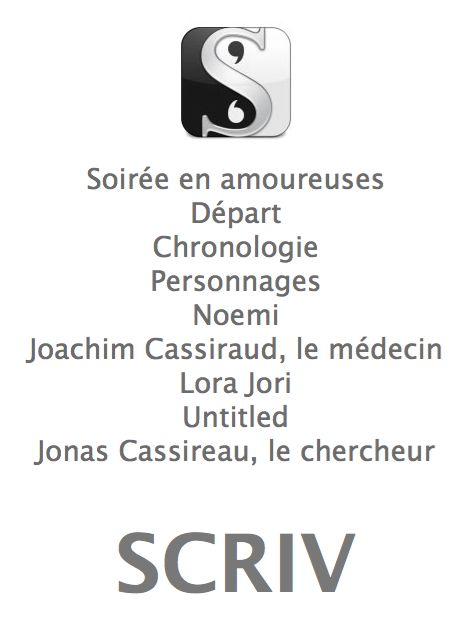
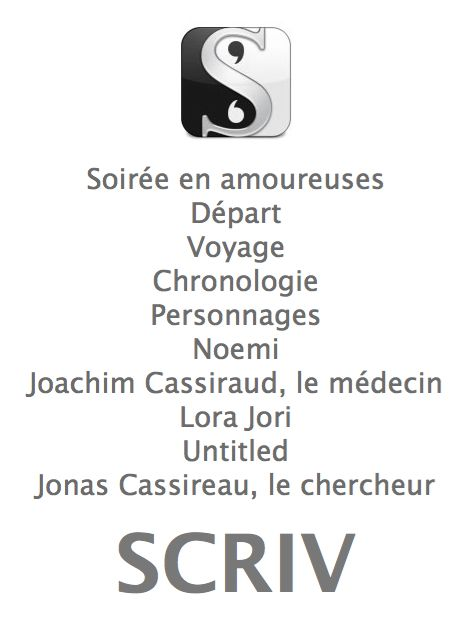
Playing RFTG and stealing D. Weber's ideas about hyperespace. Yeah.
5048 words

Changed region(s): [[0.0593, 0.3625, 0.9492, 0.8156]]

diff --git a/Noemi.scriv/QuickLook/Preview.html b/Noemi.scriv/QuickLook/Preview.html
@@ -34,6 +34,13 @@
 <p class="binderItem"><strong>Départ</strong><br/>La tête appuyée contre le hublot blindé, j’observais la surface de la planète s’éloigner. Les départs en mission sont toujours difficiles, même pour les gens bizarres comme moi qui affectionnent particulièrement les séjours spatiaux. Ce départ-ci était tout de même particulièrement difficile. Je savais que c’était le dernier, que la vie après mon retour serait radicalement différente, et que j’aurais dû en profiter.<br/>
 Mais cette fois-ci, pour une fois, je n’avais pas du tout, du tout, du tout envi...</p>
 </li>
+<li>
+<p class="binderItem"><strong>Voyage</strong><br/>« 93 points. Pas mal.<br/>
+— Joli ! Je n’en suis qu’à 65.<br/>
+— Mais comment vous faites ? J’ai donné tout ce que j’ai pu et j’en suis à 37 !<br/>
+— L’habitude, {Tartempion}. Mais attends de voir ce que va dire le pacha. Elle nous aplatit à chaque partie depuis 3 semaines que nous sommes partis. »<br/>
+Je souris en coin sous le regard interrogateur de Joachim. J’avais appris ce jeu à l’académie de pilotage, et je commençais à le maîtriser. Il s’agissait d’un jeu de stratégie constitué d’environ 250 cartes dans leq...</p>
+</li>
 </ul>
 
 </td>
